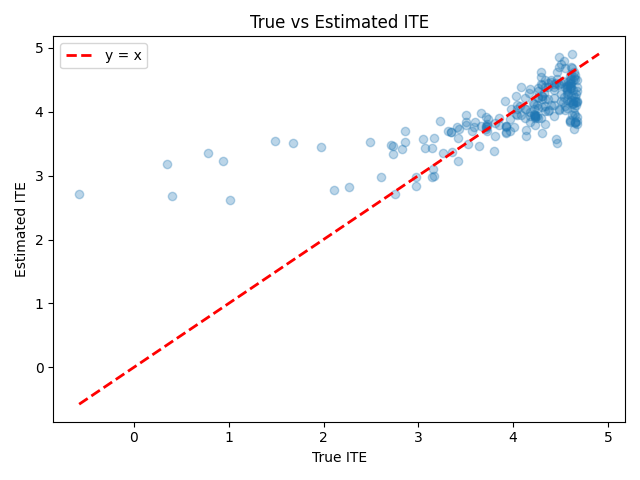
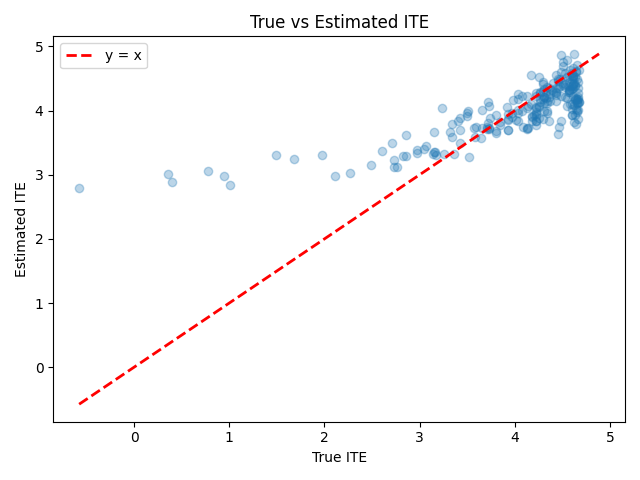
MLflow integration

diff --git a/src/mlflow_tracking.py b/src/mlflow_tracking.py
@@ -1,0 +1,227 @@
+"""
+MLflow Tracking Module for DML Causal Inference Project
+
+This module provides utilities for tracking experiments with MLflow,
+including model training, metrics logging, and artifact saving.
+"""
+
+import mlflow
+import mlflow.pyfunc
+from datetime import datetime
+import os
+import tempfile
+
+from src.config import ROOT_DIR, MLFLOW_EXPERIMENT_NAME
+
+
+class EconMLCausalEffectModel(mlflow.pyfunc.PythonModel):
+    """MLflow pyfunc wrapper that predicts treatment effects with an EconML model."""
+
+    def __init__(self, model):
+        self.model = model
+
+    def predict(self, context, model_input):
+        return self.model.effect(model_input)
+
+
+def setup_mlflow(experiment_name=MLFLOW_EXPERIMENT_NAME, tracking_uri=None):
+    """
+    Set up MLflow tracking.
+    
+    Args:
+        experiment_name: Name of the MLflow experiment
+        tracking_uri: Optional MLflow tracking server URI
+    
+    Returns:
+        The experiment object
+    """
+    # Use the local SQLite backend by default. The filesystem backend is
+    # deprecated in recent MLflow versions and older mlruns metadata can fail
+    # to load if required fields are missing.
+    if tracking_uri is None:
+        tracking_uri = f"sqlite:///{ROOT_DIR / 'mlflow.db'}"
+    
+    mlflow.set_tracking_uri(tracking_uri)
+    
+    experiment = mlflow.set_experiment(experiment_name)
+    
+    return experiment
+
+
+def _log_dataframe_artifact(df, filename):
+    """Log a dataframe as a CSV artifact without creating root-level files."""
+    with tempfile.TemporaryDirectory() as tmpdir:
+        artifact_path = os.path.join(tmpdir, filename)
+        df.to_csv(artifact_path, index=False)
+        mlflow.log_artifact(artifact_path)
+
+
+def log_model_comparison(run_name, comparison_df, true_ate):
+    """
+    Log model comparison results to MLflow.
+    
+    Args:
+        run_name: Name for this run
+        comparison_df: DataFrame with model comparison results
+        true_ate: True ATE value
+    """
+    with mlflow.start_run(run_name=run_name) as run:
+        # Log best model metrics
+        best_model = comparison_df.iloc[0]
+        mlflow.log_metric("best_model_ate_error", best_model["ATE Error"])
+        mlflow.log_metric("best_model_pehe", best_model["PEHE"])
+        mlflow.log_metric("best_model_estimated_ate", best_model["Estimated ATE"])
+        
+        # Log true ATE
+        mlflow.log_param("true_ate", true_ate)
+        
+        # Log all model results as a table
+        for _, row in comparison_df.iterrows():
+            mlflow.log_metric(f"{row['Model']}_ate_error", row["ATE Error"])
+            mlflow.log_metric(f"{row['Model']}_pehe", row["PEHE"])
+        
+        # Log best model name
+        mlflow.log_param("best_model", best_model["Model"])
+        
+        # Log comparison DataFrame as artifact
+        _log_dataframe_artifact(comparison_df, "model_comparison.csv")
+        
+        return run.info.run_id
+
+
+def log_baseline_comparison(run_name, naive_ate, ra_ate, dml_ate, true_ate):
+    """
+    Log baseline comparison results to MLflow.
+    
+    Args:
+        run_name: Name for this run
+        naive_ate: Naive ATE estimate
+        ra_ate: Regression Adjustment ATE
+        dml_ate: DML ATE estimate
+        true_ate: True ATE
+    """
+    with mlflow.start_run(run_name=run_name) as run:
+        # Log ATE estimates
+        mlflow.log_metric("naive_ate", naive_ate)
+        mlflow.log_metric("ra_ate", ra_ate)
+        mlflow.log_metric("dml_ate", dml_ate)
+        mlflow.log_metric("true_ate", true_ate)
+        
+        # Log ATE errors
+        mlflow.log_metric("naive_ate_error", abs(naive_ate - true_ate))
+        mlflow.log_metric("ra_ate_error", abs(ra_ate - true_ate))
+        mlflow.log_metric("dml_ate_error", abs(dml_ate - true_ate))
+        
+        return run.info.run_id
+
+
+def log_full_experiment(
+    experiment_name,
+    comparison_df,
+    policy_results_list,
+    baseline_results,
+    true_ate,
+    model_params=None,
+    fitted_best_model=None,
+    model_input_example=None
+):
+    """
+    Log a complete experiment with all results.
+    
+    Args:
+        experiment_name: Name for this experiment
+        comparison_df: DataFrame with model comparison results
+        policy_results_list: List of policy evaluation DataFrames
+        baseline_results: Dict with naive_ate, ra_ate, dml_ate
+        true_ate: True ATE value
+        model_params: Optional dict of model parameters
+        fitted_best_model: Optional fitted EconML model to log to MLflow
+        model_input_example: Optional example features for the logged model
+    """
+    timestamp = datetime.now().strftime("%Y%m%d_%H%M%S")
+    run_name = f"{experiment_name}_{timestamp}"
+    
+    with mlflow.start_run(run_name=run_name) as run:
+        # Log parameters
+        if model_params:
+            for key, value in model_params.items():
+                mlflow.log_param(key, value)
+        
+        mlflow.log_param("true_ate", true_ate)
+        
+        # Log baseline results
+        mlflow.log_metric("naive_ate", baseline_results["naive_ate"])
+        mlflow.log_metric("ra_ate", baseline_results["ra_ate"])
+        mlflow.log_metric("dml_ate", baseline_results["dml_ate"])
+        
+        # Log baseline errors
+        mlflow.log_metric("naive_ate_error", abs(baseline_results["naive_ate"] - true_ate))
+        mlflow.log_metric("ra_ate_error", abs(baseline_results["ra_ate"] - true_ate))
+        mlflow.log_metric("dml_ate_error", abs(baseline_results["dml_ate"] - true_ate))
+        
+        # Log best model info
+        best_model = comparison_df.iloc[0]
+        mlflow.log_param("best_model", best_model["Model"])
+        mlflow.log_metric("best_model_ate_error", best_model["ATE Error"])
+        mlflow.log_metric("best_model_pehe", best_model["PEHE"])
+
+        if fitted_best_model is not None:
+            mlflow.pyfunc.log_model(
+                name="best_model",
+                python_model=EconMLCausalEffectModel(fitted_best_model),
+                input_example=model_input_example
+            )
+        
+        # Log all model comparison
+        for _, row in comparison_df.iterrows():
+            mlflow.log_metric(f"{row['Model']}_ate_error", row["ATE Error"])
+            mlflow.log_metric(f"{row['Model']}_pehe", row["PEHE"])
+        
+        # Log policy results
+        policy_names = ["positive", "fraction", "threshold"]
+        for i, policy_df in enumerate(policy_results_list):
+            for idx, row in policy_df.iterrows():
+                metric_name = f"{policy_names[i]}_policy_{idx.lower().replace(' ', '_')}"
+                mlflow.log_metric(metric_name, row["Policy Value"])
+        
+        # Log comparison CSV
+        _log_dataframe_artifact(comparison_df, "model_comparison.csv")
+        
+        return run.info.run_id
+
+
+def get_experiment_runs(experiment_name=None):
+    """
+    Get all runs from an experiment.
+    
+    Args:
+        experiment_name: Name of the experiment (optional)
+    
+    Returns:
+        DataFrame with run information
+    """
+    if experiment_name:
+        exp = mlflow.get_experiment_by_name(experiment_name)
+        if exp:
+            runs = mlflow.search_runs([exp.experiment_id])
+            return runs
+    return mlflow.search_runs()
+
+
+def compare_best_models(experiment_name=None, metric="pehe"):
+    """
+    Compare the best models across all runs.
+    
+    Args:
+        experiment_name: Name of the experiment (optional)
+        metric: Metric to sort by (default: pehe)
+    
+    Returns:
+        DataFrame with best runs
+    """
+    runs = get_experiment_runs(experiment_name)
+    if not runs.empty:
+        # Filter for best model metrics
+        best_runs = runs.sort_values(f"metrics.{metric}", ascending=True)
+        return best_runs.head(10)
+    return runs

diff --git a/main.py b/main.py
@@ -1,14 +1,14 @@
 import pandas as pd
-from sklearn import metrics
 from sklearn.model_selection import train_test_split
 
-from src.config import DATA_PATH, FIGURE_DIR, METRICS_DIR, RANDOM_STATE, TEST_SIZE
+from src.config import DATA_PATH, FIGURE_DIR, METRICS_DIR, RANDOM_STATE, TEST_SIZE, MLFLOW_EXPERIMENT_NAME
 from src.data import load_data, get_features_and_target
 from src.preprocessing import preprocess_data
 from src.baselines import get_naive_ate, regression_adjustment_ate
 from src.model import get_model, train_model, get_all_models
 from src.policy import get_positive_policy, get_fraction_policy, get_threshold_policy
 from src.evaluation import ate_error, pehe, evaluate_policies
+from src.mlflow_tracking import setup_mlflow, log_full_experiment, compare_best_models
 
 from src.plots import (
     plot_ite_distribution,
@@ -150,16 +150,75 @@ def main():
     evaluate_fraction_policy.to_csv(METRICS_DIR / "fraction_policy_results.csv")
     evaluate_threshold_policy.to_csv(METRICS_DIR / "threshold_policy_results.csv")
 
-    print("\nModel metrics")
-    print(metrics)
-
-    print("\nPolicy results")
-    print(evaluate_positive_policy)
-
-    print("\nTop 30% constrained policy results")
-    print(evaluate_fraction_policy)
+    # ============================================
+    # MLflow Experiment Tracking
+    # ============================================
+    print("\n" + "="*50)
+    print("Logging to MLflow")
+    print("="*50)
     
-    print("\n threshold policy results")
-    print(evaluate_threshold_policy)
+    # Set up MLflow experiment
+    experiment = setup_mlflow(experiment_name=MLFLOW_EXPERIMENT_NAME)
+    
+    # Prepare baseline results
+    baseline_results = {
+        "naive_ate": naive_ate,
+        "ra_ate": ra_ate,
+        "dml_ate": dml_ate
+    }
+    
+    # Model parameters for logging
+    model_params = {
+        "test_size": TEST_SIZE,
+        "random_state": RANDOM_STATE,
+        "n_estimators": 100,
+        "max_depth": 5
+    }
+    
+    # Log full experiment
+    run_id = log_full_experiment(
+        experiment_name=MLFLOW_EXPERIMENT_NAME,
+        comparison_df=comparison_df,
+        policy_results_list=[evaluate_positive_policy, evaluate_fraction_policy, evaluate_threshold_policy],
+        baseline_results=baseline_results,
+        true_ate=true_ate,
+        model_params=model_params,
+        fitted_best_model=best_model,
+        model_input_example=X_test_processed.head(5)
+    )
+    
+    print(f"MLflow Run ID: {run_id}")
+    print("Experiment logged successfully!")
+
+    best_runs = compare_best_models(
+        experiment_name=MLFLOW_EXPERIMENT_NAME,
+        metric="best_model_pehe"
+    )
+    best_run_columns = [
+        "run_id",
+        "metrics.best_model_pehe",
+        "metrics.best_model_ate_error",
+        "params.best_model"
+    ]
+
+    print("\n--- Best MLflow Runs (sorted by best model PEHE) ---")
+    print(best_runs[best_run_columns].to_string(index=False))
+    
+    # Print MLflow UI info
+    #print("\nTo view experiment results, run:")
+    #print("  mlflow ui")
+    #print("Then open http://localhost:5000 in your browser")
+
+    #print("\nModel metrics")
+    #print(metrics)
+
+    #print("\nPolicy results")
+    #print(evaluate_positive_policy)
+
+    #print("\nTop 30% constrained policy results")
+    #print(evaluate_fraction_policy)
+    
+    #print("\n threshold policy results")
+    #print(evaluate_threshold_policy)
 
 if __name__ == "__main__":    main()    

diff --git a/src/model.py b/src/model.py
@@ -19,28 +19,28 @@ def get_model(model_type="LinearDML_RF"):
     """
     if model_type == "LinearDML_RF":
         model = LinearDML(
-            model_y=RandomForestRegressor(n_estimators=100, max_depth=5, random_state=RANDOM_STATE),
+            model_y=RandomForestRegressor(n_estimators=200, max_depth=5, random_state=RANDOM_STATE),
             model_t=RandomForestClassifier(n_estimators=100, max_depth=5, random_state=RANDOM_STATE),
             discrete_treatment=True,
             random_state=RANDOM_STATE
         )
     elif model_type == "LinearDML_GB":
         model = LinearDML(
-            model_y=GradientBoostingRegressor(n_estimators=100, max_depth=5, random_state=RANDOM_STATE),
+            model_y=GradientBoostingRegressor(n_estimators=200, max_depth=5, random_state=RANDOM_STATE),
             model_t=GradientBoostingClassifier(n_estimators=100, max_depth=5, random_state=RANDOM_STATE),
             discrete_treatment=True,
             random_state=RANDOM_STATE
         )
     elif model_type == "CausalForestDML":
         model = CausalForestDML(
-            model_y=RandomForestRegressor(n_estimators=100, max_depth=5, random_state=RANDOM_STATE),
-            model_t=RandomForestClassifier(n_estimators=100, max_depth=5, random_state=RANDOM_STATE ),
+            model_y=RandomForestRegressor(n_estimators=200, max_depth=15, random_state=RANDOM_STATE),
+            model_t=RandomForestClassifier(n_estimators=200, max_depth=15, random_state=RANDOM_STATE ),
             discrete_treatment=True,
             random_state=RANDOM_STATE
         )
     elif model_type == "DML_Lasso":
         model = LinearDML(
-            model_y=Lasso(alpha=1.0, random_state=RANDOM_STATE),
+            model_y=Lasso(alpha=0.9, random_state=RANDOM_STATE),
             model_t=LogisticRegression(random_state=RANDOM_STATE, max_iter=1000),
             discrete_treatment=True,
             random_state=RANDOM_STATE

diff --git a/src/config.py b/src/config.py
@@ -9,3 +9,5 @@ METRICS_DIR = OUTPUT_DIR / "metrics"
 
 RANDOM_STATE = 42
 TEST_SIZE = 0.3
+
+MLFLOW_EXPERIMENT_NAME = "DML_Causal_Inference_v5"
